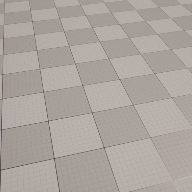
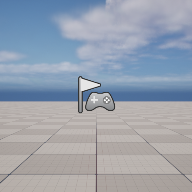
Arrow 클래스 설정, 클릭시 Arrow Actor 생성
GetWorld()->SpawnActor<AArrow>(FVector::ZeroVector, FRotator::ZeroRotator); 를 이용하여 액터를 월드에 배치하기 ,
Arrow 에 BoxComponent 만들기

diff --git a/BasicUnrealProject/Source/BasicUnrealProject/MyCharacter.cpp b/BasicUnrealProject/Source/BasicUnrealProject/MyCharacter.cpp
@@ -6,6 +6,7 @@
 #include "GameFramework/SpringArmComponent.h"
 #include "Blueprint/UserWidget.h"
 #include "GameFramework/CharacterMovementComponent.h"
+#include "Arrow.h"
 
 // Sets default values
 AMyCharacter::AMyCharacter() :
@@ -191,6 +192,7 @@ void AMyCharacter::doChameraArmLengthSetup(float val)
 void AMyCharacter::doLeftClick()
 {
 	UAnimInstance* MyAnimInstance = GetMesh()->GetAnimInstance();
-
 	MyAnimInstance->Montage_Play(MyFireMontage, 1.0f);
+
+	GetWorld()->SpawnActor<AArrow>(FVector::ZeroVector, FRotator::ZeroRotator);
 }

diff --git a/BasicUnrealProject/Source/BasicUnrealProject/Arrow.h b/BasicUnrealProject/Source/BasicUnrealProject/Arrow.h
@@ -13,6 +13,9 @@ class BASICUNREALPROJECT_API AArrow : public AActor
 protected:
 	UPROPERTY(VisibleAnywhere)
 	UStaticMeshComponent* ArrowMesh;
+
+	UPROPERTY(VisibleAnywhere)
+	class UBoxComponent* CollisionMesh;
 public:	
 	// Sets default values for this actor's properties
 	AArrow();
